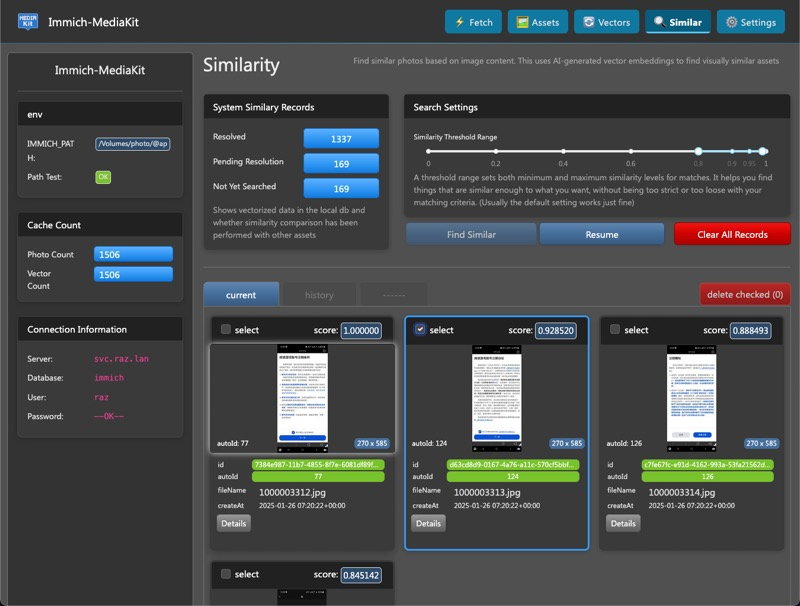
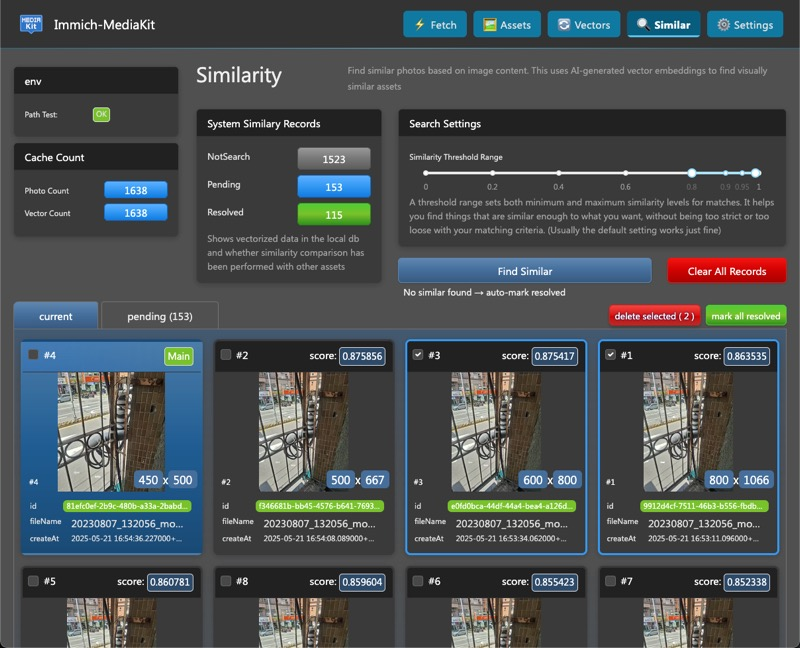
impl img-pop-multi

diff --git a/src/pages/similar.py b/src/pages/similar.py
@@ -31,7 +31,8 @@ class k:
 
     btnFind = "sim-btn-find"
     btnClear = "sim-btn-clear"
-    btnDelSels = "sim-btn-delSelect"
+    btnCbxDel = "sim-btn-CbxDel"
+    btnCbxOk = "sim-btn-CbxOk"
 
     tab = 'sim-taber'
     pagerPnd = "sim-pager-pnd"
@@ -135,7 +136,8 @@ def layout(autoId=None, **kwargs):
                 taber.Tab(title="pending", disabled=True),
             ],
             htmActs=[
-                dbc.Button("delete selected (0)", id=k.btnDelSels, color="danger", size="md", className="w-60", disabled=True)
+                dbc.Button("delete selected (0)", id=k.btnCbxDel, color="danger", size="sm", className="w-60", disabled=True),
+                dbc.Button("mark all resolved", id=k.btnCbxOk, color="success", size="sm", className="w-60", disabled=True)
             ],
             tabBodies=[
                 # Current
@@ -309,6 +311,7 @@ def sim_SyncTaberToNow(dta_tbr, dta_now):
         out(k.txtCntNo, "children"),
         out(k.btnFind, "disabled"),
         out(k.btnClear, "disabled"),
+        out(k.btnCbxOk, "disabled"),
         out(k.gvSim, "children"),
         out(k.gvPnd, "children"),
         out(ks.sto.nfy, "data", allow_duplicate=True),
@@ -338,6 +341,7 @@ def sim_OnStatus(dta_now, dta_nfy, dta_tar):
     disCler = cntOk <= 0 and cntPn <= 0
 
     cntAssets = len(now.pg.sim.assCur) if now.pg.sim.assCur else -1
+    disOk = cntAssets <= 0
 
     if cntAssets >= 1:
         #lg.info(f"[sim:status] assets: {now.pg.sim.assets[0]}")
@@ -421,7 +425,7 @@ def sim_OnStatus(dta_now, dta_nfy, dta_tar):
     else:
         lg.warn(f"[sim:status] NoTaber?")
 
-    return cntOk, cntPn, cntNo, disFind, disCler, gvSim, gvPnd, nfy.toDict(), now.toDict(), pagerData.toDict() if pagerData else noUpd
+    return cntOk, cntPn, cntNo, disFind, disCler, disOk, gvSim, gvPnd, nfy.toDict(), now.toDict(), pagerData.toDict() if pagerData else noUpd
 
 
 #------------------------------------------------------------------------
@@ -472,8 +476,8 @@ def sim_OnSelectAsset(clks_crd, dta_now, dta_nfy):
 #------------------------------------------------------------------------
 @callback(
     [
-        out(k.btnDelSels, "children"),
-        out(k.btnDelSels, "disabled"),
+        out(k.btnCbxDel, "children"),
+        out(k.btnCbxDel, "disabled"),
     ],
     inp(ks.sto.now, "data"),
     prevent_initial_call=True
@@ -546,7 +550,7 @@ def sim_OnSwitchViewGroup(clks, dta_now, dta_tar):
     [
         inp(k.btnFind, "n_clicks"),
         inp(k.btnClear, "n_clicks"),
-        inp(k.btnDelSels, "n_clicks"),
+        inp(k.btnCbxDel, "n_clicks"),
     ],
     [
         ste(k.slideTh, "value"),
@@ -581,7 +585,7 @@ def sim_RunModal(clk_fnd, clk_clr, clk_dse, thRange, dta_now, dta_mdl, dta_tsk, 
     lg.info(f"[similar] trig[{trgId}] tsk[{tsk}]")
 
     #------------------------------------------------------------------------
-    if trgId == k.btnDelSels:
+    if trgId == k.btnCbxDel:
         ass = now.pg.sim.assSelect
         cnt = len(ass)
 

diff --git a/src/mod/modalImg.py b/src/mod/modalImg.py
@@ -77,7 +77,7 @@ def mdlImg_IsOpen(dta_mdl, is_open):
 
 
 @callback(
-    out(k.store, "data"),
+    out(k.store, "data", allow_duplicate=True),
     inp({"type": "img-pop", "index": dash.ALL}, "n_clicks"),
     ste(k.store, "data"),
     prevent_initial_call=True
@@ -89,6 +89,39 @@ def mdlImg_OnImgPopClicked(clks, dta_mdl):
     if not ctx.triggered: return noUpd
 
     mdl = models.MdlImg.fromDict(dta_mdl)
+
+    trigIdx = ctx.triggered_id
+    if isinstance(trigIdx, dict) and "index" in trigIdx:
+        assId = trigIdx["index"]
+        lg.info(f"[mdlImg] clicked, assId[{assId}] clicked[{clks}]")
+
+        if assId:
+            mdl.open = True
+            mdl.imgUrl = f"/api/img/{assId}?q=preview"
+
+    return mdl.toDict()
+
+
+@callback(
+    out(k.store, "data", allow_duplicate=True),
+    inp({"type": "img-pop-multi", "index": dash.ALL}, "n_clicks"),
+    ste(k.store, "data"),
+    prevent_initial_call=True
+)
+def mdlImg_OnImgPopMultiClicked(clks, dta_mdl):
+    if not clks or not any(clks): return noUpd
+
+    ctx = dash.callback_context
+    if not ctx.triggered: return noUpd
+
+    mdl = models.MdlImg.fromDict(dta_mdl)
+
+    idxs = []
+    for i, inp in enumerate(ctx.inputs_list[0]):
+        if 'index' in inp['id']:
+            idxs.append(inp['id']['index'])
+
+    lg.info(f"[mdlImg] all indexes: {idxs}")
 
     trigIdx = ctx.triggered_id
     if isinstance(trigIdx, dict) and "index" in trigIdx:

diff --git a/src/ui/gridSimilar.py b/src/ui/gridSimilar.py
@@ -277,7 +277,7 @@ def mkImgCardSim(ass: models.Asset, simInfos: list[models.SimInfo], isMain=False
         htm.Div([
             htm.Img(
                 src=imgSrc,
-                id={"type": "img-pop", "index": assId}, n_clicks=0,
+                id={"type": "img-pop-multi", "index": assId}, n_clicks=0,
                 className="card-img"
             ) if imgSrc else htm.Img(src="assets/noimg.png", className="card-img")
             ,
